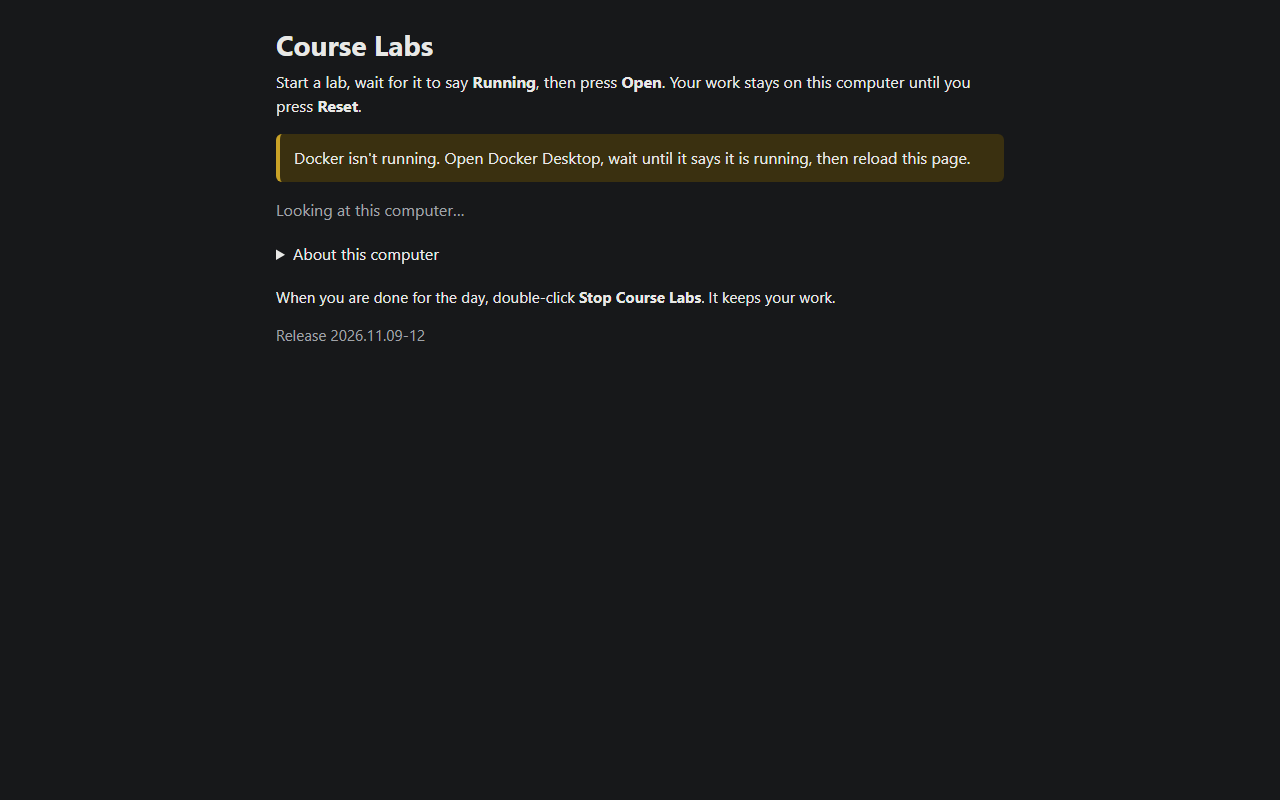
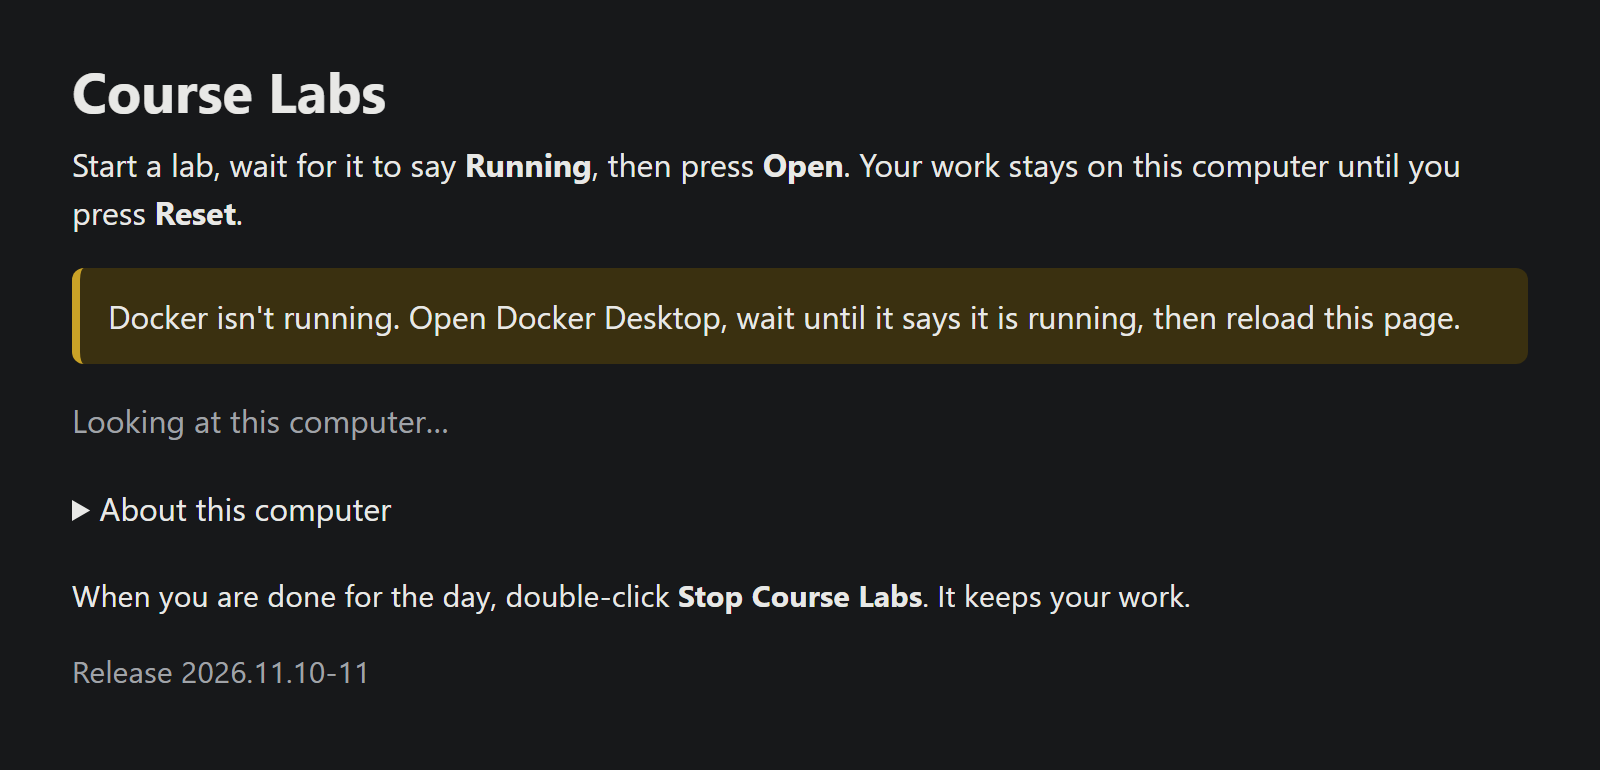
Student guide: a real "Docker isn't running" picture
The mock-up is replaced by a capture of the real control page: the launcher run from this repo's source on
this Windows 11 PC, with release 2026.11.10-11's manifest and DOCKER_HOST at a dead address (Docker Desktop
kept running), shot in headless Chrome at device scale factor 2. The caption says so, and that 2026.11.10-11
itself shows the notice only after Start. The picture part of the follow-up bullet goes; the Windows warning
part stays for its own check.

Requested: "I want the instructions to tell the sessions that will work on these items to dynamically adjust on the fly to resolve any new items that arise while working. The end result should be no outstanding items in follow-ups."

diff --git a/docs/follow-ups.md b/docs/follow-ups.md
@@ -20,8 +20,7 @@ slide index), which is never listed here.
   Security Warning" screen, and its text says "Windows protected your PC" without having been checked against a
   real downloaded zip. Download the release zip in a browser, extract it with Explorer, double-click
   `Start-Course-Labs.cmd`, picture what appears and make the text match. (9 Nov 2026, launcher S7 student guide;
-  10 Nov 2026: the control-page pictures are now real, and the Mac step points at Apple's page; the "Docker isn't
-  running" picture is still a mock-up, because a real one needs Docker Desktop stopped.)
+  10 Nov 2026: the control-page pictures are now real, and the Mac step points at Apple's page.)
 
 ## Tooling and rules
 
